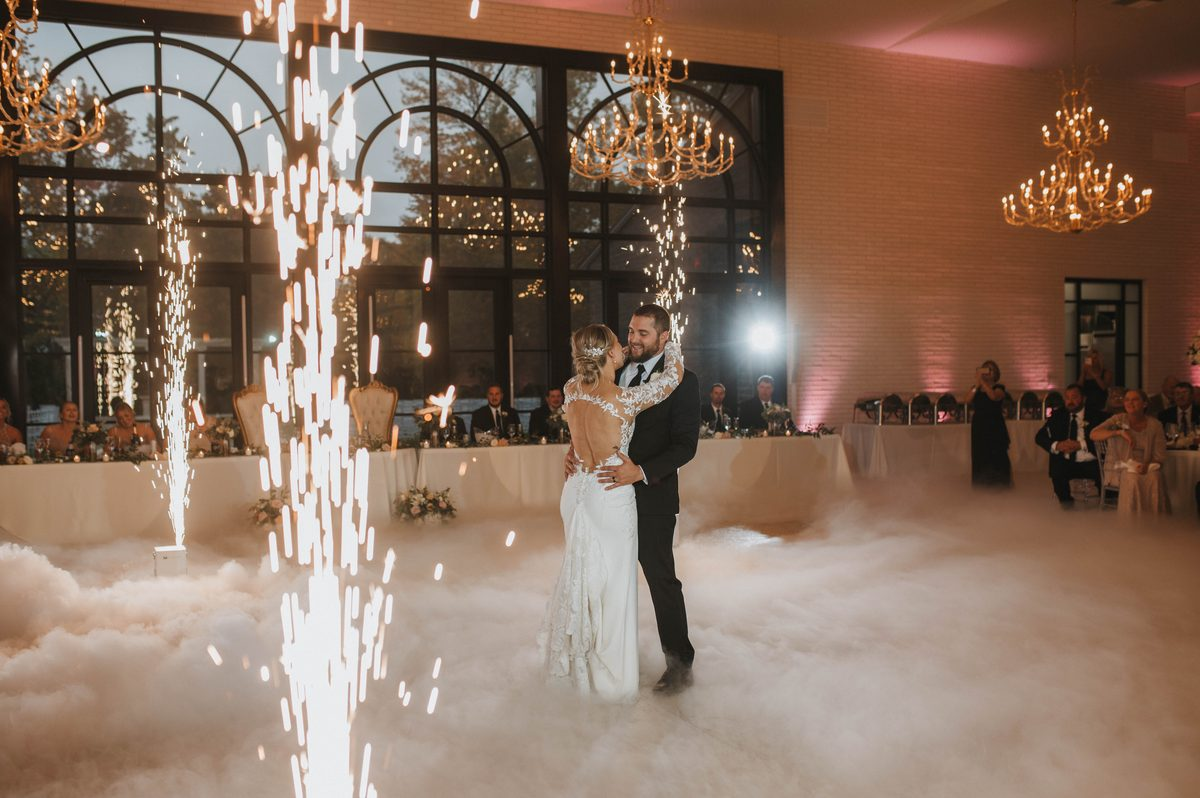
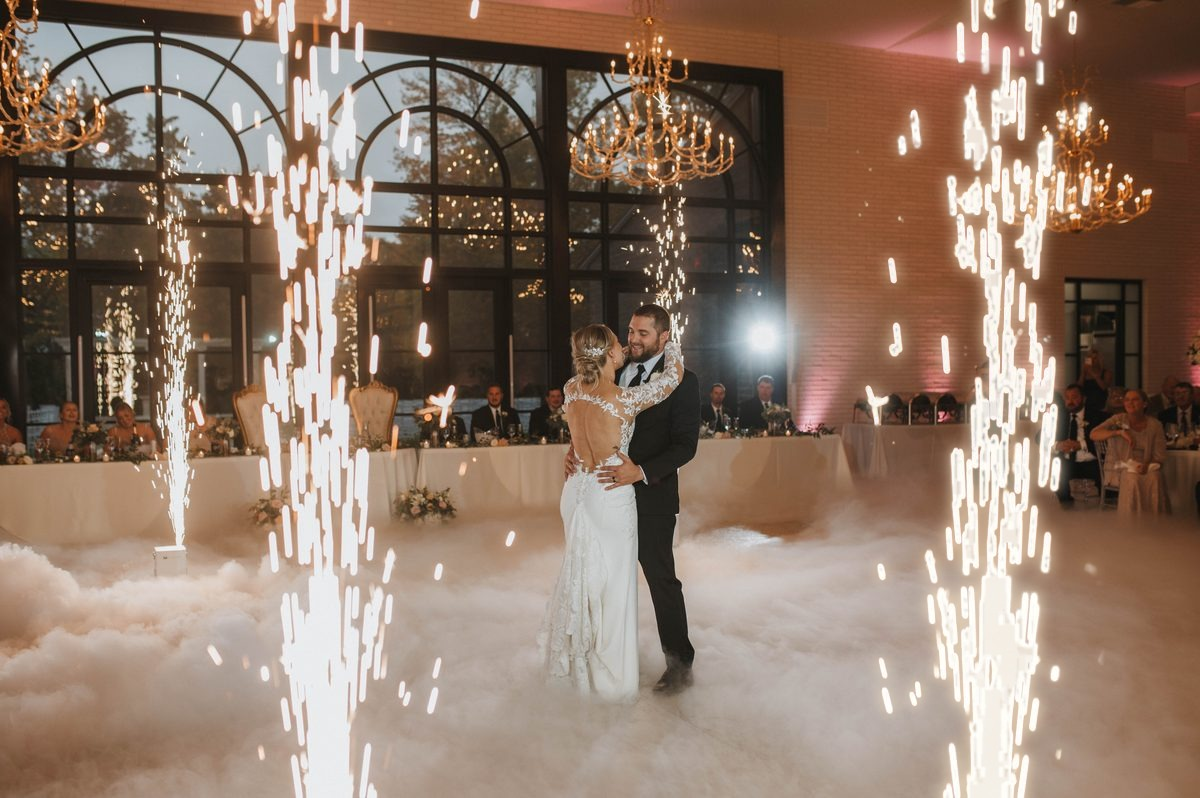
Drop-day email: two sparkler hero, 'It's here... / The best part, it's yours.' headline, website fonts (Inter Tight / Inter), trimmed Also Live Today
Claude-Session: https://claude.ai/code/session_01XsichBfr4DVSrb3QDqUgMr

diff --git a/docs/email-drop-day.html b/docs/email-drop-day.html
@@ -6,14 +6,15 @@
 <meta name="color-scheme" content="dark">
 <meta name="supported-color-schemes" content="dark">
 <title>Marquee Drop Day Email</title>
-<link href="https://fonts.googleapis.com/css2?family=Archivo:wght@400;700;900&family=Lora:ital,wght@1,500&display=swap" rel="stylesheet">
+<link href="https://fonts.googleapis.com/css2?family=Inter+Tight:wght@800;900&family=Inter:wght@400;600;700;800&family=Lora:ital,wght@1,500&display=swap" rel="stylesheet">
 <style>
   body { margin: 0; padding: 0; background: #09080a; }
   a { text-decoration: none; }
   @media (max-width: 620px) {
     .wrap { width: 100% !important; }
     .px { padding-left: 24px !important; padding-right: 24px !important; }
-    .h1 { font-size: 58px !important; line-height: 54px !important; }
+    .h1 { font-size: 60px !important; line-height: 52px !important; }
+      .h2 { font-size: 34px !important; line-height: 32px !important; }
   }
 </style>
 </head>
@@ -28,9 +29,9 @@
     <!-- Masthead -->
     <tr><td style="padding:0 4px 18px;border-bottom:1px solid #3a3239;">
       <table role="presentation" width="100%" cellpadding="0" cellspacing="0" border="0"><tr>
-        <td style="font-family:'Archivo',Arial,Helvetica,sans-serif;font-size:11px;font-weight:700;letter-spacing:3px;text-transform:uppercase;color:#c9c6cc;">Marquee Events</td>
-        <td align="center" style="font-family:'Archivo',Arial,Helvetica,sans-serif;font-size:11px;font-weight:700;letter-spacing:3px;text-transform:uppercase;color:#ffffff;">Vol. 08</td>
-        <td align="right" style="font-family:'Archivo',Arial,Helvetica,sans-serif;font-size:11px;font-weight:700;letter-spacing:3px;text-transform:uppercase;color:#ff2e88;">Live Now</td>
+        <td style="font-family:'Inter','Helvetica Neue',Arial,sans-serif;font-size:11px;font-weight:700;letter-spacing:3px;text-transform:uppercase;color:#c9c6cc;">Marquee Events</td>
+        <td align="center" style="font-family:'Inter','Helvetica Neue',Arial,sans-serif;font-size:11px;font-weight:700;letter-spacing:3px;text-transform:uppercase;color:#ffffff;">Vol. 08</td>
+        <td align="right" style="font-family:'Inter','Helvetica Neue',Arial,sans-serif;font-size:11px;font-weight:700;letter-spacing:3px;text-transform:uppercase;color:#ff2e88;">Live Now</td>
       </tr></table>
     </td></tr>
 
@@ -42,12 +43,12 @@
 
     <!-- Headline -->
     <tr><td class="px" style="padding:36px 8px 0;">
-      <div class="h1" style="font-family:'Archivo','Arial Black',Arial,Helvetica,sans-serif;font-size:72px;line-height:66px;font-weight:900;text-transform:uppercase;color:#ffffff;letter-spacing:-1px;">It&rsquo;s here.</div>
-      <div style="padding-top:12px;font-family:'Lora',Georgia,'Times New Roman',serif;font-style:italic;font-size:26px;line-height:32px;color:#ff2e88;">and the best part is yours.</div>
+      <div class="h1" style="font-family:'Inter Tight','Inter','Helvetica Neue',Arial,sans-serif;font-size:76px;line-height:66px;font-weight:900;text-transform:uppercase;color:#F4F5F7;letter-spacing:-0.03em;">It&rsquo;s here&hellip;</div>
+      <div class="h2" style="padding-top:14px;font-family:'Inter Tight','Inter','Helvetica Neue',Arial,sans-serif;font-size:44px;line-height:40px;font-weight:900;text-transform:uppercase;color:#ff2e88;letter-spacing:-0.03em;text-shadow:0 0 40px rgba(255,46,136,.40);">The best part, it&rsquo;s yours.</div>
     </td></tr>
 
     <!-- Body -->
-    <tr><td class="px" style="padding:26px 8px 0;font-family:'Archivo',Arial,Helvetica,sans-serif;font-size:16px;line-height:26px;color:#c9c6cc;">
+    <tr><td class="px" style="padding:26px 8px 0;font-family:'Inter','Helvetica Neue',Arial,sans-serif;font-size:16px;line-height:26px;color:#c9c6cc;">
       <p style="margin:0 0 16px;">Hey {{Names}},</p>
       <p style="margin:0;">The new Marquee is officially live. And the piece we&rsquo;re most excited about was built just for you: <b style="color:#ffffff;">your brand new client portal.</b></p>
     </td></tr>
@@ -60,10 +61,10 @@
     <!-- Features -->
     <tr><td class="px" style="padding:22px 8px 0;">
       <table role="presentation" width="100%" cellpadding="0" cellspacing="0" border="0">
-        <tr><td width="48" valign="top" style="padding:14px 0;border-bottom:1px solid #262127;font-family:'Archivo',Arial,sans-serif;font-size:18px;font-weight:900;color:#ff2e88;">01</td><td style="padding:14px 0;border-bottom:1px solid #262127;font-family:'Archivo',Arial,sans-serif;font-size:15px;line-height:22px;color:#c9c6cc;"><b style="color:#ffffff;font-size:16px;">Your countdown</b><br>Every step from today to the dance floor, in order.</td></tr>
-        <tr><td width="48" valign="top" style="padding:14px 0;border-bottom:1px solid #262127;font-family:'Archivo',Arial,sans-serif;font-size:18px;font-weight:900;color:#ff2e88;">02</td><td style="padding:14px 0;border-bottom:1px solid #262127;font-family:'Archivo',Arial,sans-serif;font-size:15px;line-height:22px;color:#c9c6cc;"><b style="color:#ffffff;font-size:16px;">Payments, simplified</b><br>What&rsquo;s due, when it&rsquo;s due, and one tap to pay.</td></tr>
-        <tr><td width="48" valign="top" style="padding:14px 0;border-bottom:1px solid #262127;font-family:'Archivo',Arial,sans-serif;font-size:18px;font-weight:900;color:#ff2e88;">03</td><td style="padding:14px 0;border-bottom:1px solid #262127;font-family:'Archivo',Arial,sans-serif;font-size:15px;line-height:22px;color:#c9c6cc;"><b style="color:#ffffff;font-size:16px;">Your headliner</b><br>Call, text or email your DJ right from your event.</td></tr>
-        <tr><td width="48" valign="top" style="padding:14px 0;font-family:'Archivo',Arial,sans-serif;font-size:18px;font-weight:900;color:#ff2e88;">04</td><td style="padding:14px 0;font-family:'Archivo',Arial,sans-serif;font-size:15px;line-height:22px;color:#c9c6cc;"><b style="color:#ffffff;font-size:16px;">Add to your night</b><br>Browse add-ons, see your new total, and send a request.</td></tr>
+        <tr><td width="48" valign="top" style="padding:14px 0;border-bottom:1px solid #262127;font-family:'Inter','Helvetica Neue',Arial,sans-serif;font-size:18px;font-weight:900;color:#ff2e88;">01</td><td style="padding:14px 0;border-bottom:1px solid #262127;font-family:'Inter','Helvetica Neue',Arial,sans-serif;font-size:15px;line-height:22px;color:#c9c6cc;"><b style="color:#ffffff;font-size:16px;">Your countdown</b><br>Every step from today to the dance floor, in order.</td></tr>
+        <tr><td width="48" valign="top" style="padding:14px 0;border-bottom:1px solid #262127;font-family:'Inter','Helvetica Neue',Arial,sans-serif;font-size:18px;font-weight:900;color:#ff2e88;">02</td><td style="padding:14px 0;border-bottom:1px solid #262127;font-family:'Inter','Helvetica Neue',Arial,sans-serif;font-size:15px;line-height:22px;color:#c9c6cc;"><b style="color:#ffffff;font-size:16px;">Payments, simplified</b><br>What&rsquo;s due, when it&rsquo;s due, and one tap to pay.</td></tr>
+        <tr><td width="48" valign="top" style="padding:14px 0;border-bottom:1px solid #262127;font-family:'Inter','Helvetica Neue',Arial,sans-serif;font-size:18px;font-weight:900;color:#ff2e88;">03</td><td style="padding:14px 0;border-bottom:1px solid #262127;font-family:'Inter','Helvetica Neue',Arial,sans-serif;font-size:15px;line-height:22px;color:#c9c6cc;"><b style="color:#ffffff;font-size:16px;">Your headliner</b><br>Call, text or email your DJ right from your event.</td></tr>
+        <tr><td width="48" valign="top" style="padding:14px 0;font-family:'Inter','Helvetica Neue',Arial,sans-serif;font-size:18px;font-weight:900;color:#ff2e88;">04</td><td style="padding:14px 0;font-family:'Inter','Helvetica Neue',Arial,sans-serif;font-size:15px;line-height:22px;color:#c9c6cc;"><b style="color:#ffffff;font-size:16px;">Add to your night</b><br>Browse add-ons, see your new total, and send a request.</td></tr>
       </table>
     </td></tr>
 
@@ -71,19 +72,19 @@
     <tr><td align="center" class="px" style="padding:30px 8px 0;">
       <table role="presentation" cellpadding="0" cellspacing="0" border="0"><tr>
         <td align="center" bgcolor="#ff2e88" style="background:#ff2e88;">
-          <a href="https://marqueeeventplanner.com/clientlogon.asp" target="_blank" style="display:inline-block;padding:18px 40px;font-family:'Archivo',Arial,Helvetica,sans-serif;font-size:14px;font-weight:900;letter-spacing:3px;text-transform:uppercase;color:#0a0809;">Open my client portal &rarr;</a>
+          <a href="https://marqueeeventplanner.com/clientlogon.asp" target="_blank" style="display:inline-block;padding:18px 40px;font-family:'Inter','Helvetica Neue',Arial,sans-serif;font-size:14px;font-weight:900;letter-spacing:3px;text-transform:uppercase;color:#0a0809;">Open my client portal &rarr;</a>
         </td>
       </tr></table>
-      <div style="padding-top:14px;font-family:'Archivo',Arial,Helvetica,sans-serif;font-size:13px;line-height:20px;color:#c9c6cc;">Same email and password as always. Forgot yours? Just reply and we&rsquo;ll help.</div>
+      <div style="padding-top:14px;font-family:'Inter','Helvetica Neue',Arial,sans-serif;font-size:13px;line-height:20px;color:#c9c6cc;">Same email and password as always. Forgot yours? Just reply and we&rsquo;ll help.</div>
     </td></tr>
 
     <!-- Also live -->
     <tr><td class="px" style="padding:34px 8px 0;">
       <table role="presentation" width="100%" cellpadding="0" cellspacing="0" border="0" bgcolor="#1a0d14" style="background:#1a0d14;border:1px solid #ff2e88;">
         <tr><td style="padding:24px 26px 26px;">
-          <div style="font-family:'Archivo',Arial,Helvetica,sans-serif;font-size:11px;font-weight:700;letter-spacing:4px;text-transform:uppercase;color:#ff2e88;">Also live today</div>
-          <div style="padding-top:12px;font-family:'Archivo',Arial,Helvetica,sans-serif;font-size:16px;line-height:26px;color:#ffffff;font-weight:700;">The new website &middot; Wedding guide &middot; Design studio &middot; Link-in-bio &middot; Business cards</div>
-          <div style="padding-top:10px;font-family:'Archivo',Arial,Helvetica,sans-serif;font-size:14px;line-height:22px;color:#c9c6cc;">Find it all in the link on our Instagram, <a href="https://www.instagram.com/marqueeohio/" target="_blank" style="color:#ff2e88;font-weight:700;">@marqueeohio</a>.</div>
+          <div style="font-family:'Inter','Helvetica Neue',Arial,sans-serif;font-size:11px;font-weight:700;letter-spacing:4px;text-transform:uppercase;color:#ff2e88;">Also live today</div>
+          <div style="padding-top:12px;font-family:'Inter','Helvetica Neue',Arial,sans-serif;font-size:16px;line-height:26px;color:#ffffff;font-weight:700;">The new website &middot; Wedding guide &middot; Design studio</div>
+          <div style="padding-top:10px;font-family:'Inter','Helvetica Neue',Arial,sans-serif;font-size:14px;line-height:22px;color:#c9c6cc;">Find it all in the link on our Instagram, <a href="https://www.instagram.com/marqueeohio/" target="_blank" style="color:#ff2e88;font-weight:700;">@marqueeohio</a>.</div>
         </td></tr>
       </table>
     </td></tr>
@@ -93,14 +94,14 @@
       <div style="font-family:'Lora',Georgia,'Times New Roman',serif;font-style:italic;font-size:21px;line-height:28px;color:#ffffff;">Thank you for being the reason we build things like this.</div>
       <table role="presentation" cellpadding="0" cellspacing="0" border="0" style="margin-top:20px;"><tr>
         <td valign="middle" style="padding-right:18px;"><img src="{{IMG}}bob-logo.png" width="130" alt="Bob Hickman" style="display:block;width:130px;height:auto;border:0;"></td>
-        <td valign="middle" style="border-left:1px solid #3a3239;padding-left:18px;font-family:'Archivo',Arial,Helvetica,sans-serif;font-size:13px;line-height:20px;color:#c9c6cc;"><b style="color:#ffffff;font-size:15px;">Bob Hickman</b><br>Founder, DJ &amp; MC<br>Marquee Events</td>
+        <td valign="middle" style="border-left:1px solid #3a3239;padding-left:18px;font-family:'Inter','Helvetica Neue',Arial,sans-serif;font-size:13px;line-height:20px;color:#c9c6cc;"><b style="color:#ffffff;font-size:15px;">Bob Hickman</b><br>Founder, DJ &amp; MC<br>Marquee Events</td>
       </tr></table>
     </td></tr>
 
     <!-- Footer -->
     <tr><td align="center" style="padding:34px 20px 0;">
       <img src="{{IMG}}marquee-logo.png" width="150" alt="Marquee Events" style="display:block;width:150px;height:auto;border:0;margin:0 auto 14px;">
-      <div style="font-family:'Archivo',Arial,Helvetica,sans-serif;font-size:11px;line-height:18px;letter-spacing:1px;color:#7b747d;">MARQUEE EVENTS &middot; NEW PHILADELPHIA, OHIO<br>You&rsquo;re getting this because you have a wedding booked with Marquee Events.</div>
+      <div style="font-family:'Inter','Helvetica Neue',Arial,sans-serif;font-size:11px;line-height:18px;letter-spacing:1px;color:#7b747d;">MARQUEE EVENTS &middot; NEW PHILADELPHIA, OHIO<br>You&rsquo;re getting this because you have a wedding booked with Marquee Events.</div>
     </td></tr>
 
   </table>
